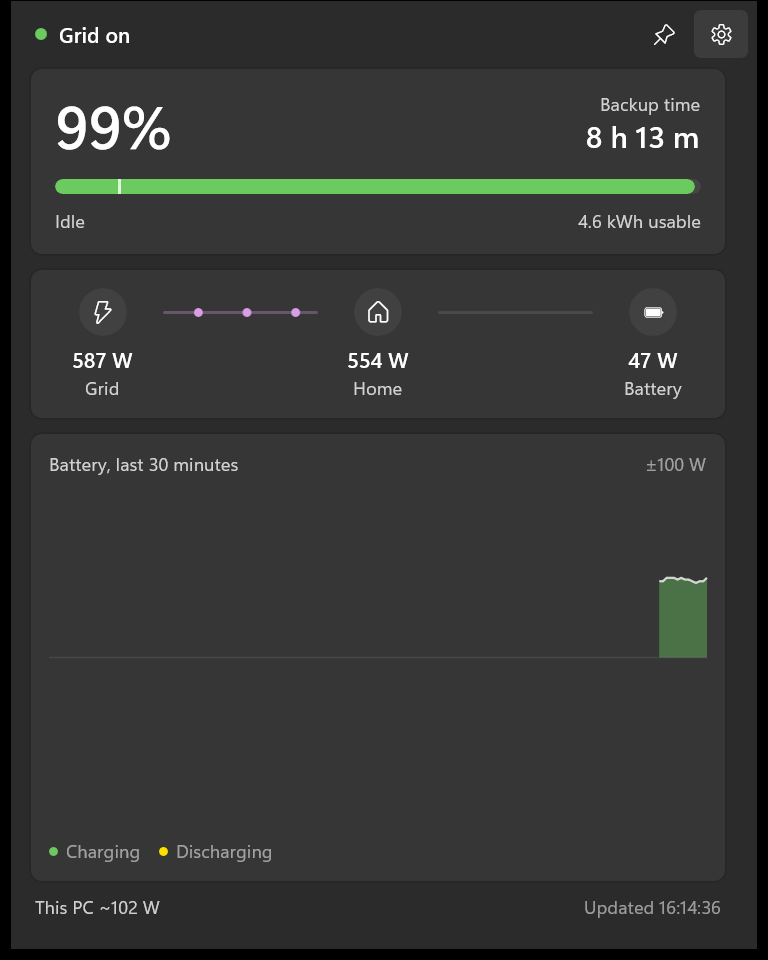
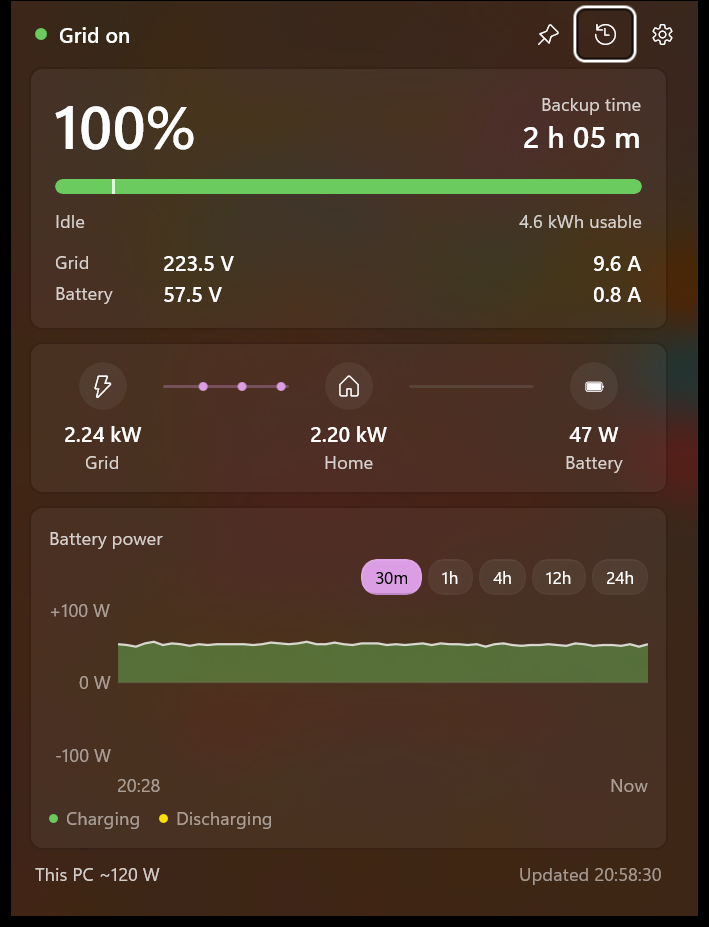
Update the README screenshots for the flyout and History window.

diff --git a/README.md b/README.md
@@ -2,9 +2,11 @@
 
 Power Monitor is a Windows notification-area app for a Deye hybrid inverter on the local network. It shows battery state of charge, whether the pack is charging or discharging, apartment load, how long backup would last if the grid dropped now, and this PC’s own power draw.
 
-![The flyout, with the battery at 99 percent, the grid on, and the last 30 minutes of battery power](docs/flyout.png)
+![The flyout, with the battery full, grid and battery voltage and current, and the last 30 minutes of battery power](docs/flyout.png)
 
 The flyout is compact and stays out of Alt+Tab. Left-click the tray icon to show or hide it. Press Esc or click outside to hide it, unless it is pinned. The flyout shows grid and battery voltage and current. The grid values stay blank while the grid is off. While the battery charges it shows an estimated time to full (charging slows near 100%, so the real time is usually longer). The History button in the flyout header, or right-click the icon, opens the inverter's own battery, home, and grid energy counters, plus grid outages. An outage that changed while this PC was off is marked Before the moment the PC noticed; the inverter does not store the exact minute, and an outage that both started and ended while the PC was off is not listed. Right-click also has Settings and Exit. Every window remembers the size you give it in `%AppData%\PowerMonitor\window-layout.json`. Starting the app again focuses the copy that is already running. Settings and Find logger open as their own windows.
+
+![History, with the inverter's battery, home, and grid counters, and the outage list](docs/history.png)
 
 ## Requirements
 
